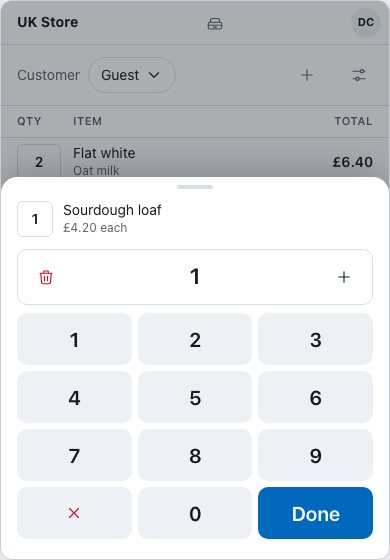
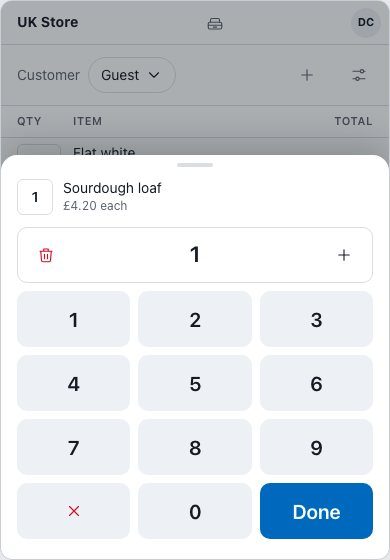
docs: quantity keypad at touch size, 48 px cells; overhang accepted

diff --git a/docs/prototypes/2026-09-12-language/pos-register/board-cart.html b/docs/prototypes/2026-09-12-language/pos-register/board-cart.html
@@ -46,9 +46,9 @@ svg{width:18px;height:18px;flex:none;stroke:currentColor;fill:none;stroke-width:
 .frame.dec .nm,.frame.dec .pr{cursor:text;border-radius:4px;padding:2px 4px;margin:-2px -4px} .frame[data-pt="mouse"].dec .nm:hover,.frame[data-pt="mouse"].dec .pr:hover{background:var(--muted)}
 .frame.dec .ed{height:32px;border:var(--hair) solid var(--primary);box-shadow:0 0 0 1px var(--primary);border-radius:6px;padding:0 6px;width:100%;background:var(--card);outline:none;font:inherit;color:inherit;min-width:0} .frame.dec .ed.r{text-align:right}
 /* the quantity expands in place: the number cell stays where the box was; − to its left (overhanging the cart's edge), + to its right, the keypad below */
-.frame.dec .qx{position:absolute;left:-20px;width:108px;z-index:7;background:var(--card);border:var(--hair) solid var(--border);border-radius:6px;box-shadow:0 10px 28px oklch(0.2 0.02 250 / .18);display:grid;grid-template-columns:repeat(3,36px);grid-auto-rows:36px;animation:grow 180ms var(--ease);clip-path:inset(0 0 0 0 round 6px);overflow:hidden}
-@keyframes grow{from{clip-path:inset(0 36px calc(100% - 36px) 36px round 6px);box-shadow:none}}
-.frame.dec .qx button,.frame.dec .qx b{display:inline-flex;align-items:center;justify-content:center;font-weight:600;font-size:14px} .frame.dec .qx button:hover{background:var(--muted)} .frame.dec .qx b{font-size:15px;border-bottom:var(--hair) solid var(--border)} .frame.dec .qx .top{border-bottom:var(--hair) solid var(--border)} .frame.dec .qx .del{color:var(--destructive)} .frame.dec .qx .ok{color:var(--primary)}
+.frame.dec .qx{position:absolute;left:-38px;width:144px;z-index:7;background:var(--card);border:var(--hair) solid var(--border);border-radius:6px;box-shadow:0 10px 28px oklch(0.2 0.02 250 / .18);display:grid;grid-template-columns:repeat(3,48px);grid-auto-rows:48px;animation:grow 180ms var(--ease);clip-path:inset(0 0 0 0 round 6px);overflow:hidden}
+@keyframes grow{from{clip-path:inset(6px 48px calc(100% - 42px) 48px round 6px);box-shadow:none}}
+.frame.dec .qx button,.frame.dec .qx b{display:inline-flex;align-items:center;justify-content:center;font-weight:600;font-size:17px} .frame.dec .qx button:hover{background:var(--muted)} .frame.dec .qx b{font-size:16px;border-bottom:var(--hair) solid var(--border)} .frame.dec .qx .top{border-bottom:var(--hair) solid var(--border)} .frame.dec .qx .del{color:var(--destructive)} .frame.dec .qx .ok{color:var(--primary)}
 
 /* swipe the total: drag left on the total column; full swipe deletes, a short one snaps to Edit / Delete; on a mouse the total nudges on hover to show there is something under the line */
 .frame.dec .tot{cursor:grab;position:relative;display:inline-block;padding:6px 0 6px 12px;margin:-6px 0 -6px -12px;border-radius:4px}
@@ -62,7 +62,7 @@ svg{width:18px;height:18px;flex:none;stroke:currentColor;fill:none;stroke-width:
 .frame.phone .scrim{position:absolute;inset:0;background:oklch(0.2 0.02 250 / .35);z-index:8}
 .frame.phone .sheet .grab{width:36px;height:4px;border-radius:2px;background:var(--border);margin:0 auto 12px} .frame.phone .sheet .ttl{display:flex;align-items:center;gap:10px;margin-bottom:12px} .frame.phone .sheet .ttl .q{height:36px;min-width:36px;border:var(--hair) solid var(--border);border-radius:6px;display:inline-flex;align-items:center;justify-content:center;font-weight:600} .frame.phone .sheet .ttl .sub{display:block;color:var(--muted-fg);font-size:12px}
 .frame.phone .sheet .stp{display:grid;grid-template-columns:56px 1fr 56px;height:56px;border:var(--hair) solid var(--border);border-radius:10px;overflow:hidden;margin-bottom:8px} .frame.phone .sheet .stp button,.frame.phone .sheet .stp b{display:inline-flex;align-items:center;justify-content:center;font-size:22px;font-weight:600} .frame.phone .sheet .stp .del{color:var(--destructive)}
-.frame.phone .sheet .kb{display:grid;grid-template-columns:repeat(3,1fr);gap:6px} .frame.phone .sheet .kb button{height:52px;border-radius:10px;background:var(--muted);display:inline-flex;align-items:center;justify-content:center;font-size:20px;font-weight:600} .frame.phone .sheet .kb .ok{background:var(--primary);color:var(--primary-fg)}
+.frame.phone .sheet .kb{display:grid;grid-template-columns:repeat(3,1fr);gap:8px} .frame.phone .sheet .kb button{height:56px;border-radius:10px;background:var(--muted);display:inline-flex;align-items:center;justify-content:center;font-size:20px;font-weight:600} .frame.phone .sheet .kb .ok{background:var(--primary);color:var(--primary-fg)}
 .frame.phone .sheet .kb .del{color:var(--destructive)}
 .rej{margin-top:36px;max-width:960px} .rej summary{cursor:pointer;font-size:14px;color:#374151;padding:10px 0} .rej .board{margin-top:16px}
 /* 01 the selected line expands */
@@ -163,7 +163,7 @@ function makeDecided(frame,phone){
   const render=()=>{const sub=S.lines.reduce((a,l)=>a+l.q*l.p,0), vat=sub*0.2; frame.dataset.pt=G.pt; frame.tabIndex=0;
     frame.innerHTML=`${phone?'':'<div class="sliver"></div>'}<div class="cartcol">${head}<div class="lines">${S.lines.map(line).join('')}${S.qopen!=null&&!phone?qx(S.qopen):''}${S.undo?`<div class="toast">${I.trash}${S.undo.n} deleted<button data-act="undo">Undo</button></div>`:''}</div><div class="totals"><div class="mut"><span>Subtotal</span><span>${fmt(sub)}</span></div><div class="mut"><span>VAT 20%</span><span>${fmt(vat)}</span></div><div class="big"><span>Total</span><span>${fmt(sub+vat)}</span></div></div><div class="cf"><span class="btn d">Void</span><span class="btn p">Checkout ${fmt(sub+vat)}</span></div>${phone?sheet():''}</div>`;
     const ed=frame.querySelector('.ed'); if(ed){ed.focus();ed.select();}
-    const x=frame.querySelector('.qx'); if(x){const ln=frame.querySelector(`.line[data-i="${S.qopen}"]`); x.style.top=(ln.offsetTop+4)+'px';}};
+    const x=frame.querySelector('.qx'); if(x){const ln=frame.querySelector(`.line[data-i="${S.qopen}"]`); x.style.top=(ln.offsetTop-2)+'px';}};
   const remove=(i)=>{const [l]=S.lines.splice(i,1);S.qopen=null;S.buf='';S.undo={...l,at:i};render();clearTimeout(S.ut);S.ut=setTimeout(()=>{S.undo=null;render();},2600);};
   const commit=()=>{const ed=frame.querySelector('.ed'); if(!ed) return; const i=+ed.dataset.i; if(ed.dataset.f==='n') S.lines[i].n=ed.value||S.lines[i].n; else {const v=parseFloat(ed.value); if(!isNaN(v)) S.lines[i].p=v;} S.edit=null; render();};
   frame.addEventListener('click',e=>{

diff --git a/docs/prototypes/2026-09-12-language/index.html b/docs/prototypes/2026-09-12-language/index.html
@@ -53,6 +53,7 @@ kbd{font:inherit;font-size:12px;background:#f3f4f6;border:1px solid #d1d5db;bord
   <h2>What changed</h2>
   <div class="meta">Newest first. Every push adds a line here; the date is the day it landed.</div>
   <div class="log">
+    <div><time>2026-09-17 · later 7</time><span><b>Keypad to touch size.</b> Paul: the overhang is fine, make the numpad bigger, to touch best practice. Every key, and the − and +, is now 48 px (Material's minimum, above Apple's 44 pt); the panel overhangs the cart's edge by 38 px; the phone sheet's keys are 56 px.</span></div>
     <div><time>2026-09-17 · later 6</time><span><b>Cart line decided.</b> Paul: keep the one-tap quick edit of name and price; the quantity is the button, but the box expands in place, the number exactly where it was, − to its left, + to its right, keypad beneath, as if the border grew; on phones a bottom sheet; edit and delete by swiping the total column left, a short swipe snaps to the buttons, a full swipe deletes, and on a mouse a subtle nudge on hovering the total says there is something under the line. Drawn live at the top of the cart board (tablet with a sliver of the products column, since the expanded quantity overhangs the cart's edge by 20 px; and a phone with the sheet). The five explorations are folded below it.</span></div>
     <div><time>2026-09-17 · later 5</time><span><b>Footer decided: icons and values.</b> Paul: the icons and values, no icon before the count, and "Shop base address" condensed to "Shop base". Now the default on the table board: a percent glyph then <i>Shop base ▾</i> on the left, <i>12 of 1,204</i> and sync on the right, 40 pt.</span></div>
     <div><time>2026-09-17 · later 4</time><span><b>The cart line, five ways, and the footer.</b> Paul: with that, the row is the button and the last column holds the + (the variable products need the column anyway) which becomes the count; the stepper is right for cart quantity but too big to be always there, so only on the active line; the swipe is intuitive on a tablet but a row sliding on mouse-over would confuse desktop users, who still need edit and remove on every line. New live board, five cart lines with a Tablet / Desktop switch: the selected line expands · the quantity is the button (popover with keypad) · nothing until you ask (swipe on touch, reveal in place on mouse) · a … on every line · the stepper in place on the selected line. Keys work on desktop: + − ⌫. And from Paul's screenshot of today's app, the products footer: a <kbd>Footer</kbd> switch on the table board tries today's text, icons with values, one compact line, the tax basis moved to the cart's customer row, and no footer at all (count beside the search, sync in the toolbar). The filter pills carry the app's icons now.</span></div>
@@ -95,7 +96,7 @@ kbd{font:inherit;font-size:12px;background:#f3f4f6;border:1px solid #d1d5db;bord
     <li><b>Table surface:</b> today's, the floating sheet, or all white. All three live on the board with the slide; pick there.</li>
     <li><b>Header:</b> caps over a hairline, sentence case, tinted band, or bold with a rule. My pick: sentence case on all white; caps on the other two.</li>
     <li><b>Add to cart:</b> ruled: the row is the button; the last column keeps the + (chevron for variable) which becomes the count. Quantity lives on the cart line.</li>
-    <li><b>Cart line:</b> decided and live (quick edit · expanding quantity · swipe the total). Two details to confirm on the board: the 20 px overhang of the expanded quantity past the cart's edge, and a click on the total opening the strip on desktop (beside the hover nudge).</li>
+    <li><b>Cart line:</b> decided and live (quick edit · expanding quantity at touch size · swipe the total). One detail to confirm: a click on the total opening the strip on desktop, beside the hover nudge.</li>
     <li><b>The slide:</b> is the breadcrumb enough on its own, or should the Category pill also fill (it does now)? And should the filter bar travel with the table, or stay put (it stays now)?</li>
     <li><b>Tab style:</b> amount + dot, or amount over status. Both under <kbd>Tab style</kbd>; add orders with the <kbd>12 open orders</kbd> state.</li>
     <li><b>Touches:</b> ruled 2026-09-16; the settle replaces the count-up. Doodle still open.</li>

diff --git a/docs/prototypes/2026-09-12-language/README.md b/docs/prototypes/2026-09-12-language/README.md
@@ -381,9 +381,11 @@ Added in cut 2 of the register (2026-09-14, after Paul's nine points):
     **Decided (Paul, 2026-09-17):** the one-tap quick edit of name and price stays (from cut 2).
     **Quantity is the button**, but not a popover below: the box expands in place, the number
     exactly where it was, − to its left, + to its right, the keypad beneath, the border appearing
-    to grow (drawn with a 180 ms clip-path from the box's rectangle; the panel is 3 × 36 px cells,
-    so it overhangs the cart's left edge by 20 px, and the board draws a sliver of the products
-    column to show that honestly). Typing on the keypad replaces the number, − at 1 is a trash. On
+    to grow (drawn with a 180 ms clip-path from the box's rectangle). **Paul: the overhang is
+    fine; make the keypad bigger, to touch best practice.** Cells are 48 px (Material's minimum,
+    over Apple's 44 pt), so the panel is 144 px wide and overhangs the cart's left edge by 38 px;
+    the board draws a sliver of the products column to show that honestly. The phone sheet's keys
+    are 56 px with 8 px gaps. Typing on the keypad replaces the number, − at 1 is a trash. On
     phones the same opens the app's bottom sheet (stepper and keypad, Done). **Edit and delete
     live under the line**: press and swipe the *total column* left; under 80 px it springs back,
     past 80 it snaps to Edit / Delete, past 240 it deletes (with Undo). On a mouse, hovering the
